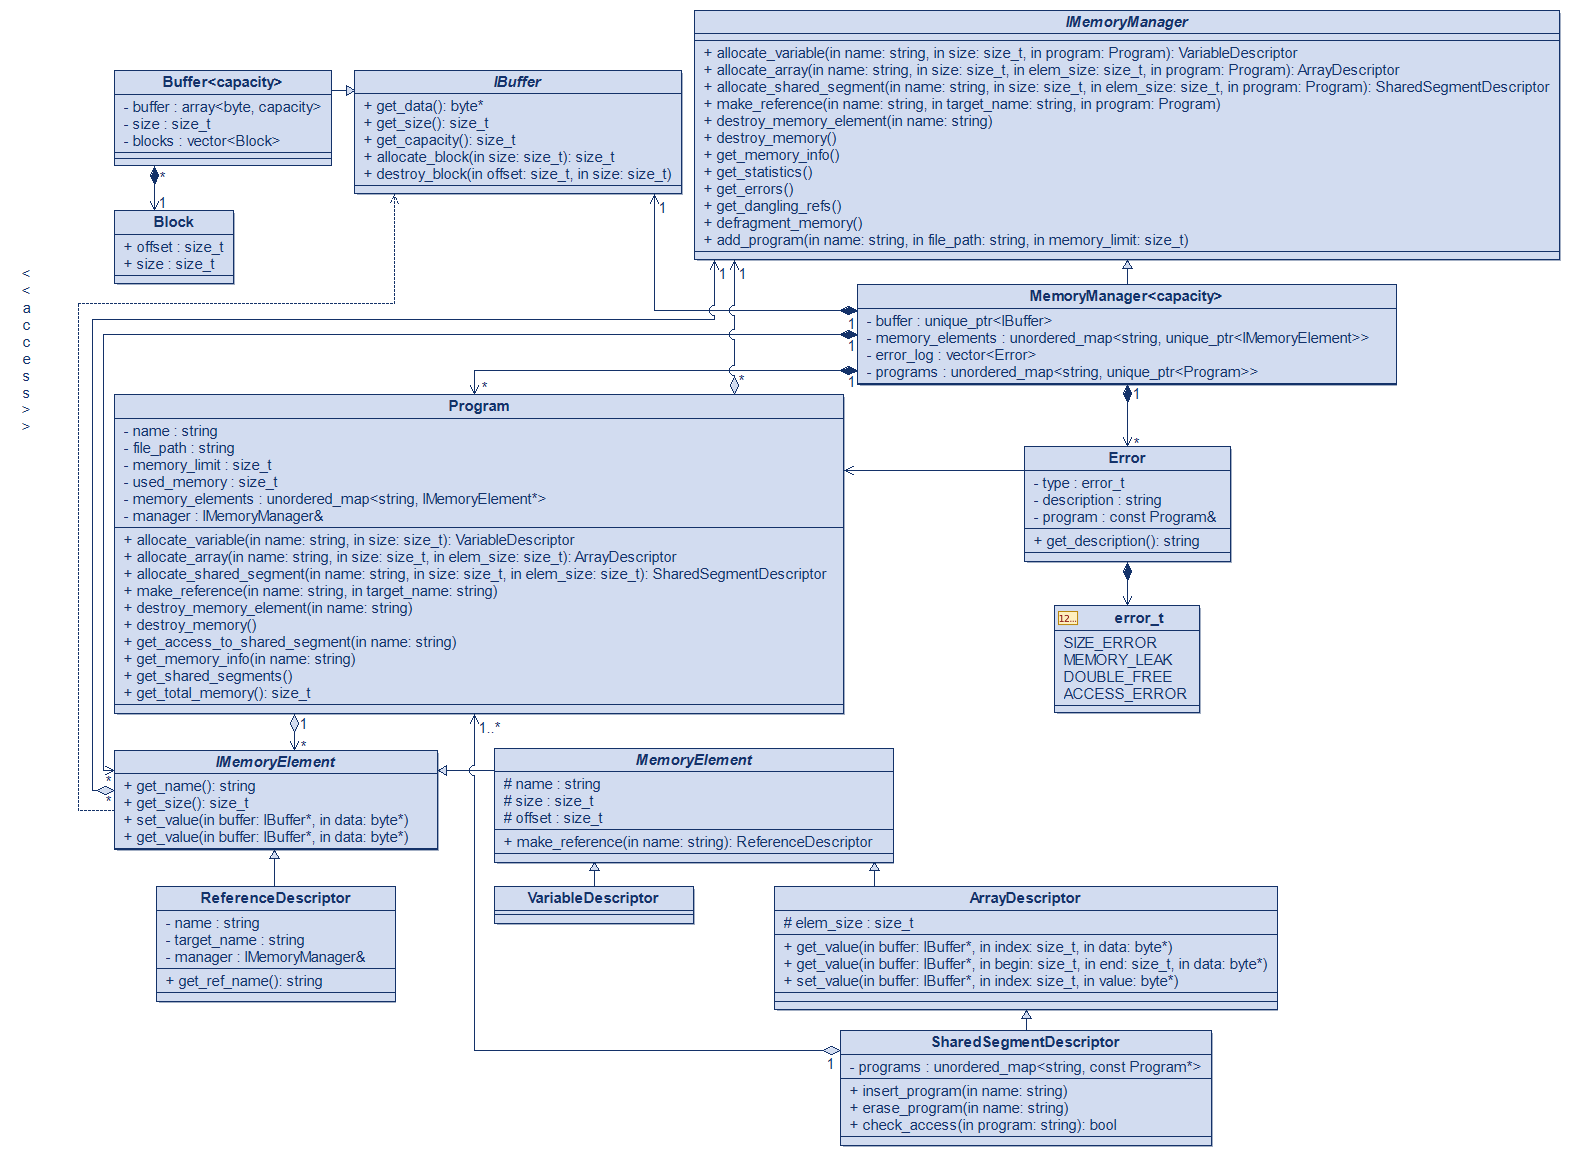
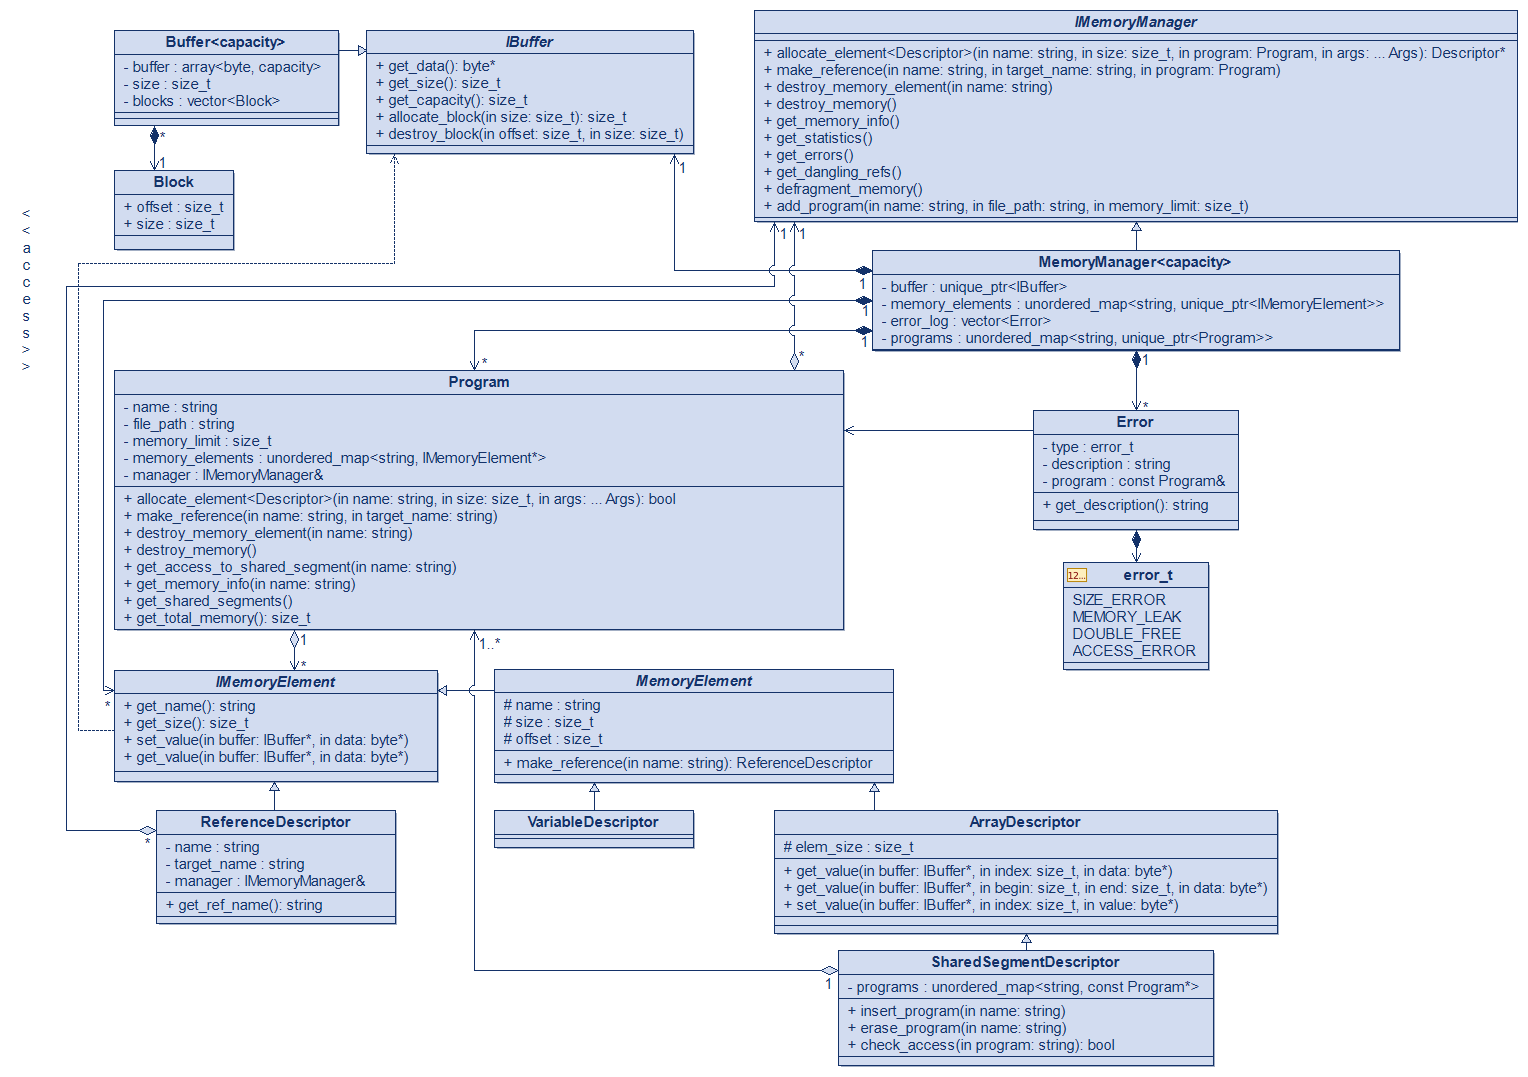
Changed type of allocation

Changed region(s): [[0.0308, 0.0, 1.0, 1.0], [0.6459, 0.3677, 0.8305, 0.6435]]

diff --git a/3/Memory/include/Memory/Manager.hpp b/3/Memory/include/Memory/Manager.hpp
@@ -5,31 +5,10 @@
 #include <unordered_map>
 #include <string>
 #include <optional>
-#include <Memory/Buffer.hpp>
+#include <Memory/IManager.hpp>
 #include <Memory/MemoryElement.hpp>
-#include <Memory/VariableDescriptor.hpp>
-#include <Memory/ArrayDescriptor.hpp>
-#include <Memory/SharedSegmentDescriptor.hpp>
-#include <Memory/Error.hpp>
 
 namespace MemoryNameSpace{
-
-class VariableDescriptor;          // forward
-class ArrayDescriptor;             // forward
-class SharedSegmentDescriptor;     // forward
-class ReferenceDescriptor;         // forward
-class IMemoryElement;              // forward
-
-class IManager {
-public:
-    virtual VariableDescriptor* allocate_variable(const std::string& name, size_t size, const Program& program) = 0;
-    virtual ArrayDescriptor* allocate_array(const std::string& name, size_t size, size_t element_size, const Program& program) = 0;
-    virtual SharedSegmentDescriptor* allocate_shared_segment(const std::string& name, size_t size, size_t element_size, const Program& program) = 0;
-    virtual ReferenceDescriptor* make_reference(const std::string& name, const std::string& target_name, const Program& program) = 0;
-    virtual void destroy_element(const std::string& name, const Program& program) = 0;
-    virtual IMemoryElement* get_element(const std::string& target_name) const = 0;
-    virtual void record_error(size_t type, std::string description, const Program& program) = 0;
-};
 
 template <size_t capacity_>
 class Manager final : public IManager {
@@ -40,7 +19,7 @@ private:
     std::unordered_map<std::string, std::unique_ptr<Program>> programs_;
 
 private:
-    std::optional<size_t> valid_allocate(size_t size, const Program& program){
+    std::optional<size_t> valid_allocate(size_t size, const Program& program) override {
         size_t offset = 0;
         try{ offset = buffer_->allocate_block(size); }
         catch(const std::runtime_error& e){
@@ -50,7 +29,7 @@ private:
         return offset;
     }
 
-    bool valid_destroy(size_t offset, size_t size, const Program& program){
+    bool valid_destroy(size_t offset, size_t size, const Program& program) override {
         try{ buffer_->destroy_block(offset, size); }
         catch(const std::out_of_range& e){
             error_log_.push_back(Error{SIZE_ERROR, e.what(), program});
@@ -63,7 +42,7 @@ private:
         return true;
     }
 
-    bool check_exist_with_error(const std::string& name, const Program& program, const std::string& error_description){
+    bool check_exist_with_error(const std::string& name, const Program& program, const std::string& error_description) override {
         auto it = memory_elements_.find(name);
         if(it != memory_elements_.end()){
             error_log_.push_back(Error{MEMORY_LEAK, error_description, program});
@@ -72,38 +51,23 @@ private:
         return false;
     }
 
-    bool check_exist_with_allocate_error(const std::string& name, const Program& program){
+    bool check_exist_with_allocate_error(const std::string& name, const Program& program) override {
         return check_exist_with_error(name, program, "Invalid write. The memory for variable '" + name + "' has already been allocated");
     }
 
-    bool check_exist_with_destroy_error(const std::string& name, const Program& program){
+    bool check_exist_with_destroy_error(const std::string& name, const Program& program) override {
         return check_exist_with_error(name, program, "Invalid free. The memory for variable '" + name + "' has already been free");
     }
 
 public:
     Manager() : buffer_(std::unique_ptr<IBuffer>{new Buffer<capacity_>{}}) {};
 
-    template <typename Descriptor, typename... ExtraArgs>
-    Descriptor* allocate_element(const std::string& name, size_t size, const Program& program, ExtraArgs&&... args){
-        if(check_exist_with_allocate_error(name, program)) return nullptr;
-        if(auto offset = valid_allocate(size, program); offset.has_value()){
-            Descriptor* element = new Descriptor{name, size, *offset, args...};
-            memory_elements_.insert({name, std::unique_ptr<IMemoryElement>{element}});
-            return element;
-        }
-        return nullptr; 
+    void insert_element(IMemoryElement* element) override {
+        memory_elements_.insert({element->get_name(), std::unique_ptr<IMemoryElement>{element}});
     }
 
-    VariableDescriptor* allocate_variable(const std::string& name, size_t size, const Program& program) override {
-        return allocate_element<VariableDescriptor>(name, size, program);
-    }
-
-    ArrayDescriptor* allocate_array(const std::string& name, size_t size, size_t element_size, const Program& program) override {
-        return allocate_element<ArrayDescriptor>(name, size, program, element_size);
-    }
-
-    SharedSegmentDescriptor* allocate_shared_segment(const std::string& name, size_t size, size_t element_size, const Program& program) override {
-        return allocate_element<SharedSegmentDescriptor>(name, size, program, element_size, &program);
+    void erase_element(IMemoryElement* element) override {
+        memory_elements_.erase(element->get_name());
     }
 
     ReferenceDescriptor* make_reference(const std::string& name, const std::string& target_name, const Program& program) override {
@@ -133,8 +97,19 @@ public:
         return it->second.get();
     }
 
-    void record_error(size_t type, std::string description, const Program& program){
+    void record_error(size_t type, std::string description, const Program& program) override {
         error_log_.push_back(Error{type, description, program});
+    }
+
+    Program* add_program(const std::string& name, const std::string& file_path, size_t memory_limit){
+        auto it = programs_.find(name);
+        if(it != programs_.end()){
+            error_log_.push_back(Error{ACCESS_ERROR, "The program has already been created.", *(it->second.get())});
+            return nullptr;
+        }
+        Program* program = new Program{name, file_path, memory_limit, *this};
+        programs_.insert({name, std::unique_ptr<Program>{program}});
+        return program;
     }
 };
 

diff --git a/3/Memory/include/Memory/IManager.hpp b/3/Memory/include/Memory/IManager.hpp
@@ -1,0 +1,51 @@
+#ifndef IMANAGER_HPP
+#define IMANAGER_HPP
+
+#include <memory>
+#include <unordered_map>
+#include <string>
+#include <optional>
+#include <Memory/Buffer.hpp>
+#include <Memory/IMemoryElement.hpp>
+#include <Memory/Error.hpp>
+
+namespace MemoryNameSpace{
+
+class ReferenceDescriptor;         // forward
+class IMemoryElement; 
+
+template<typename T>
+concept memory_element_t = std::is_base_of_v<IMemoryElement, T>;
+
+class IManager {
+protected:
+    virtual std::optional<size_t> valid_allocate(size_t size, const Program& program) = 0;
+    virtual bool valid_destroy(size_t offset, size_t size, const Program& program) = 0;
+    virtual bool check_exist_with_error(const std::string& name, const Program& program, const std::string& error_description) = 0;
+    virtual bool check_exist_with_allocate_error(const std::string& name, const Program& program) = 0;
+    virtual bool check_exist_with_destroy_error(const std::string& name, const Program& program) = 0;
+    
+public:
+    virtual void insert_element(IMemoryElement* element) = 0;
+    virtual void erase_element(IMemoryElement* element) = 0;
+    virtual ReferenceDescriptor* make_reference(const std::string& name, const std::string& target_name, const Program& program) = 0;
+    virtual void destroy_element(const std::string& name, const Program& program) = 0;
+    virtual IMemoryElement* get_element(const std::string& target_name) const = 0;
+    virtual void record_error(size_t type, std::string description, const Program& program) = 0;
+    virtual Program* add_program(const std::string& name, const std::string& file_path, size_t memory_limit) = 0;
+
+    template <memory_element_t Descriptor, typename... ExtraArgs>
+    Descriptor* allocate_element(const std::string& name, size_t size, const Program& program, ExtraArgs&&... args){
+        if(check_exist_with_allocate_error(name, program)) return nullptr;
+        if(auto offset = valid_allocate(size, program); offset.has_value()){
+            Descriptor* element = new Descriptor{name, size, *offset, args...};
+            insert_element(element);
+            return element;
+        }
+        return nullptr; 
+    }
+};
+
+}
+
+#endif

diff --git a/3/Memory/include/Memory/Program.hpp b/3/Memory/include/Memory/Program.hpp
@@ -4,11 +4,11 @@
 #include <string>
 #include <unordered_map>
 #include <vector>
+#include <Memory/IManager.hpp>
 
 namespace MemoryNameSpace{
 
 class IMemoryElement;  // forward
-class IManager;  // forward
 
 class Program final{
 private:
@@ -19,19 +19,25 @@ private:
     std::unordered_map<std::string, IMemoryElement*> memory_elements_;
     IManager& manager_;
 
-private:
-    template <typename Alloc, typename... ExtraArgs>
-    bool allocate_element(const std::string& name, size_t size, Alloc&& allocator, ExtraArgs&&... args);
-
 public:
     Program(std::string name, std::string file_path, size_t memory_limit, IManager& manager)
             : name_(name), file_path_(file_path), memory_limit_(memory_limit), used_memory_(0), memory_elements_(), manager_(manager) {}
     
     const std::string& get_name() const;
-    bool allocate_variable(const std::string& name, size_t size);
-    bool allocate_array(const std::string& name, size_t size, size_t element_size);
-    bool allocate_shared_segment(const std::string& name, size_t size, size_t element_size);
-    bool make_reference(const std::string& name, const std::string& target_name);
+    ReferenceDescriptor* make_reference(const std::string& name, const std::string& target_name);
+
+    template <memory_element_t Descriptor, typename... ExtraArgs>
+    Descriptor* allocate_element(const std::string& name, size_t size, ExtraArgs&&... args){
+        if(size > memory_limit_ - used_memory_){
+            manager_.record_error(SIZE_ERROR, "Еhe memory limit in the '" + name_ + "' program has been exceeded", *this);
+            return nullptr;
+        }
+        Descriptor* element = manager_.allocate_element<Descriptor>(name, size, args..., *this);
+        if(element == nullptr) return nullptr;
+        memory_elements_.insert({name, element});
+        used_memory_ += size;
+        return element;
+    }
 };
 
 }

diff --git a/3/Memory/source/Program.cpp b/3/Memory/source/Program.cpp
@@ -7,36 +7,11 @@ const std::string& Program::get_name() const {
     return name_;
 }
 
-template <typename Alloc, typename... ExtraArgs>
-bool Program::allocate_element(const std::string& name, size_t size, Alloc&& allocator, ExtraArgs&&... args){
-    if(size > memory_limit_ - used_memory_){
-        manager_.record_error(SIZE_ERROR, "Еhe memory limit in the '" + name_ + "' program has been exceeded", *this);
-        return false;
-    }
-    IMemoryElement* element = (manager_.*allocator)(name, size, args..., *this);
-    if(element == nullptr) return false;
-    memory_elements_.insert({name, element});
-    used_memory_ += size;
-    return true;
-}
-
-bool Program::allocate_variable(const std::string& name, size_t size){
-    return allocate_element(name, size, &IManager::allocate_variable);
-}
-
-bool Program::allocate_array(const std::string& name, size_t size, size_t element_size){
-    return allocate_element(name, size, &IManager::allocate_array, element_size);
-}
-
-bool Program::allocate_shared_segment(const std::string& name, size_t size, size_t element_size){
-    return allocate_element(name, size, &IManager::allocate_shared_segment, element_size);
-}
-
-bool Program::make_reference(const std::string& name, const std::string& target_name){
+ReferenceDescriptor* Program::make_reference(const std::string& name, const std::string& target_name){
     ReferenceDescriptor* reference = manager_.make_reference(name, target_name, *this);
-    if(reference == nullptr) return false;
+    if(reference == nullptr) return nullptr;
     memory_elements_.insert({name, reference});
-    return true;
+    return reference;
 }
 
 }

diff --git a/3/Main/source/main.cpp b/3/Main/source/main.cpp
@@ -1,8 +1,20 @@
 #include <iostream>
-// #include <Memory/Manager.hpp>
+#include <Memory/Manager.hpp>
+#include <Memory/VariableDescriptor.hpp>
+#include <Memory/Program.hpp>
 
 int main(){
-    // Manager<15> manager;
+    using namespace MemoryNameSpace;
+    int i = 0;
+    std::cout << i++;
+    Manager<15> manager;
+    std::cout << i++;
+    Program* prog = manager.add_program("VSCode", "/data/vscode", 32);
+    std::cout << i++;
+    VariableDescriptor* a = prog->allocate_element<VariableDescriptor>("A", 4);
+    std::cout << i++;
+    std::cout << a->get_name();
+    std::cout << i++;
 
     return 0;
 }

diff --git a/3/Memory/source/Error.cpp b/3/Memory/source/Error.cpp
@@ -1,10 +1,11 @@
 #include<Memory/Error.hpp>
+#include<Memory/Program.hpp>
 
 namespace MemoryNameSpace{
 
 std::string Error::get_description(){
     std::vector<std::string> messages{"SIZE_ERROR", "MEMORY_LEAK", "DOUBLE_FREE", "ACCESS_ERROR"};
-    return "Error: " + messages[static_cast<size_t>(type_)] + ": " + description_;
+    return "Error: '" + messages[static_cast<size_t>(type_)] + "' in program '" + program_.get_name() + "': " + description_;
 }
 
 }
